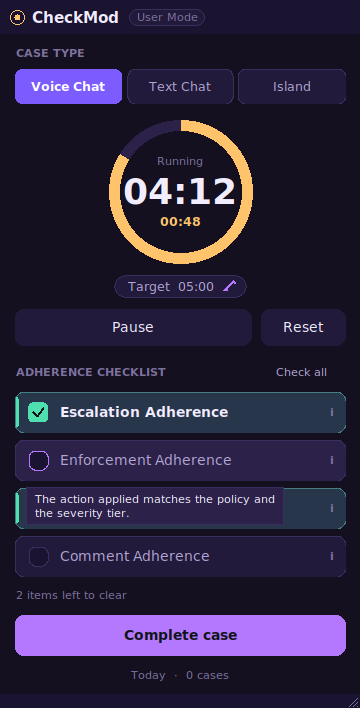
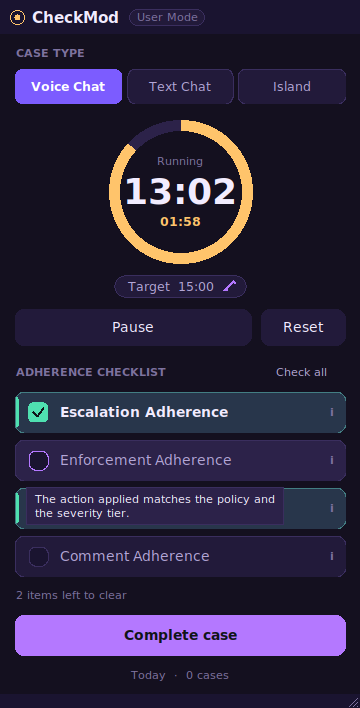
Set the shipped AHT targets to the team's real values
Voice Chat 15:00, Text Chat 10:00 and Island 20:00, replacing the
placeholder targets the first draft shipped with.

Also introduces config.DEFAULT_TARGET_S (10:00) as the single source for
the "new case type" target and the fallback used when a hand-edited
settings file carries an unparseable one - previously those were two
separate literals that could drift apart.

Documentation, the tutorial illustration and the screenshots are updated
to match, and a test pins the shipped targets so they cannot silently
regress to placeholders.

Claude-Session: https://claude.ai/code/session_01T4UPDu4nmNjdiQBqNAwjFN

Changed region(s): [[0.3361, 0.1864, 0.5194, 0.3418], [0.5194, 0.2486, 0.6111, 0.3107], [0.4889, 0.3729, 0.5194, 0.435]]

diff --git a/checkmod/config.py b/checkmod/config.py
@@ -22,6 +22,11 @@ from . import paths
 SCHEMA_VERSION = 1
 
 
+#: AHT target used for a newly created case type, and as the fallback when a
+#: hand-edited settings file carries an unparseable one.
+DEFAULT_TARGET_S = 600
+
+
 def _case(cid: str, name: str, target: int, color: str) -> Dict[str, Any]:
     """Build a case-type record (a work item with its own AHT target)."""
     return {"id": cid, "name": name, "target_s": target, "color": color, "enabled": True}
@@ -72,9 +77,9 @@ DEFAULTS: Dict[str, Any] = {
     "history_retention_days": 30,
     # ----- Domain data -----------------------------------------------------
     "case_types": [
-        _case("voice", "Voice Chat", 300, "#7C5CFF"),
-        _case("text", "Text Chat", 240, "#2BB3A3"),
-        _case("island", "Island", 420, "#F2A03D"),
+        _case("voice", "Voice Chat", 900, "#7C5CFF"),    # 15:00
+        _case("text", "Text Chat", 600, "#2BB3A3"),      # 10:00
+        _case("island", "Island", 1200, "#F2A03D"),      # 20:00
     ],
     "checklist": [
         _check("escalation", "Escalation Adherence",
@@ -317,9 +322,9 @@ class Config:
             if not isinstance(item, dict) or not item.get("name"):
                 continue
             try:
-                target = int(item.get("target_s", 300))
+                target = int(item.get("target_s", DEFAULT_TARGET_S))
             except (TypeError, ValueError):
-                target = 300
+                target = DEFAULT_TARGET_S
             cleaned.append({
                 "id": str(item.get("id") or new_id("case")),
                 "name": str(item["name"])[:40],

diff --git a/tests/test_config.py b/tests/test_config.py
@@ -36,6 +36,17 @@ def test_defaults_cover_the_documented_requirements(tmp_path):
     assert config.get("mode") == "user"
 
 
+def test_shipped_aht_targets_match_the_documented_values(tmp_path):
+    """The defaults are the team's real targets, not placeholders."""
+    config = make_config(tmp_path)
+    targets = {case["name"]: case["target_s"] for case in config.get("case_types")}
+    assert targets == {
+        "Voice Chat": 15 * 60,
+        "Text Chat": 10 * 60,
+        "Island": 20 * 60,
+    }
+
+
 def test_dotted_get_and_set_round_trip_through_the_file(tmp_path):
     config = make_config(tmp_path)
     config.set("window.w", 420)
@@ -108,7 +119,7 @@ def test_a_case_type_with_a_bad_target_falls_back_to_a_usable_value(tmp_path):
                                                 "target_s": "banana"}]}), encoding="utf-8")
 
     config = Config(path=path)
-    assert config.get("case_types")[0]["target_s"] == 300
+    assert config.get("case_types")[0]["target_s"] == 600
 
 
 def test_an_unknown_language_falls_back_to_english(tmp_path):

diff --git a/checkmod/ui/dev_view.py b/checkmod/ui/dev_view.py
@@ -27,7 +27,7 @@ import tkinter as tk
 from typing import Callable, Dict, Optional
 
 from .. import __version__, paths, theme as theme_mod
-from ..config import new_id
+from ..config import DEFAULT_TARGET_S, new_id
 from ..session import format_duration, parse_duration
 from . import dialogs
 from .fonts import PREFERRED_FAMILIES, available_families
@@ -618,7 +618,7 @@ class DevView(tk.Frame):
         cases = [dict(c) for c in self.app.config.get("case_types", [])]
         palette = theme_mod.ACCENT_SWATCHES
         cases.append({
-            "id": new_id("case"), "name": name.strip()[:40], "target_s": 300,
+            "id": new_id("case"), "name": name.strip()[:40], "target_s": DEFAULT_TARGET_S,
             "color": palette[len(cases) % len(palette)], "enabled": True,
         })
         self.app.config.set("case_types", cases)

diff --git a/checkmod/ui/tutorial.py b/checkmod/ui/tutorial.py
@@ -202,7 +202,8 @@ class Tutorial(tk.Frame):
             canvas.create_oval(cx - r, cy - r, cx + r, cy + r, outline=theme["track"], width=8)
             canvas.create_arc(cx - r, cy - r, cx + r, cy + r, start=90, extent=-250,
                               style=tk.ARC, outline=theme["warn"], width=8)
-            canvas.create_text(cx, cy, text="04:12", fill=theme["text"], font=fonts["body_bold"])
+            # 10:21 of a 15:00 target matches the ~69% arc drawn above it.
+            canvas.create_text(cx, cy, text="10:21", fill=theme["text"], font=fonts["body_bold"])
             for index, (color, label) in enumerate(
                     ((theme["ok"], "OK"), (theme["warn"], "80%"), (theme["danger"], "100%"))):
                 x = fx1 + 18 + index * 52

diff --git a/docs/CUSTOMIZATION.md b/docs/CUSTOMIZATION.md
@@ -88,16 +88,16 @@ add a theme, that test will hold you to the same bar.
 | **▲ / ▼** | Reorder. The order here is the order of the pills — and of the `Alt+1…9` shortcuts. |
 | **×** | Delete, with confirmation. |
 
-**+ Add case type** creates a new one with a 5:00 target and the next unused
+**+ Add case type** creates a new one with a 10:00 target and the next unused
 accent colour.
 
 ### AHT target formats
 
 | You type | Stored as |
 |---|---|
-| `5` | 5 minutes |
-| `4.5` | 4 min 30 s |
-| `05:30` | 5 min 30 s |
+| `15` | 15 minutes |
+| `12.5` | 12 min 30 s |
+| `15:30` | 15 min 30 s |
 | `1:30:00` | 1 h 30 min |
 
 A bare number means **minutes**, because that is how AHT is discussed day to
@@ -105,7 +105,7 @@ day. Anything unparseable is rejected and the field reverts — a typo can
 never silently set a target to zero.
 
 You can also edit the target for the selected type straight from User Mode by
-clicking the `Target 05:00 ✎` pill under the timer.
+clicking the `Target 15:00 ✎` pill under the timer.
 
 ---
 
@@ -224,9 +224,9 @@ Full file, with the factory values:
 
   // ---- domain ----
   "case_types": [
-    { "id": "voice",  "name": "Voice Chat", "target_s": 300, "color": "#7C5CFF", "enabled": true },
-    { "id": "text",   "name": "Text Chat",  "target_s": 240, "color": "#2BB3A3", "enabled": true },
-    { "id": "island", "name": "Island",     "target_s": 420, "color": "#F2A03D", "enabled": true }
+    { "id": "voice",  "name": "Voice Chat", "target_s": 900,  "color": "#7C5CFF", "enabled": true },
+    { "id": "text",   "name": "Text Chat",  "target_s": 600,  "color": "#2BB3A3", "enabled": true },
+    { "id": "island", "name": "Island",     "target_s": 1200, "color": "#F2A03D", "enabled": true }
   ],
 
   "checklist": [

diff --git a/docs/TUTORIAL.md b/docs/TUTORIAL.md
@@ -34,9 +34,9 @@ The coloured pills at the top are your case types. Out of the box:
 
 | Case type | Default AHT target |
 |---|---|
-| Voice Chat | 5:00 |
-| Text Chat | 4:00 |
-| Island | 7:00 |
+| Voice Chat | 15:00 |
+| Text Chat | 10:00 |
+| Island | 20:00 |
 
 Clicking one binds it to the current case **and starts the timer** (you can
 turn that off in *Dev Mode → Rules → Start timer when a type is picked*).
@@ -78,7 +78,7 @@ the ring for a large time read-out with a progress bar.
 
 Two ways, both instant:
 
-**From the timer** — click the **`Target 05:00 ✎`** pill under the ring, type
+**From the timer** — click the **`Target 15:00 ✎`** pill under the ring, type
 a new value, press Enter.
 
 **From Dev Mode** — *Dev Mode → AHT*, then edit the target field on any case

diff --git a/CHANGELOG.md b/CHANGELOG.md
@@ -13,8 +13,8 @@ First release.
 **Core workflow**
 - Floating, always-on-top window with a custom draggable title bar, edge
   snapping, corner resize grip and a remembered position.
-- Case types with individual AHT targets — Voice Chat (5:00), Text Chat
-  (4:00) and Island (7:00) out of the box — addable, renameable,
+- Case types with individual AHT targets — Voice Chat (15:00), Text Chat
+  (10:00) and Island (20:00) out of the box — addable, renameable,
   recolourable, reorderable and removable.
 - Circular AHT gauge with amber and over-target states, an optional alert
   sound and a blinking title-bar status dot.

diff --git a/docs/FAQ.md b/docs/FAQ.md
@@ -35,8 +35,9 @@ It clamps itself back on screen at launch. If it is still awkward, use *Dev
 Mode → Window → Centre window*.
 
 **Can I change the AHT targets?**
-Yes, in two places: click the `Target 05:00 ✎` pill under the timer, or use
-*Dev Mode → AHT*. Type `5` for five minutes, or `05:30` for five and a half.
+Yes, in two places: click the `Target 15:00 ✎` pill under the timer, or use
+*Dev Mode → AHT*. Type `15` for fifteen minutes, or `15:30` for fifteen and a
+half.
 
 **Can I add my own case types or checklist items?**
 Yes — *Dev Mode → AHT* and *Dev Mode → Checks*. Add, rename, recolour,

diff --git a/docs/PRIVACY.md b/docs/PRIVACY.md
@@ -75,8 +75,8 @@ One record is appended per completed case. This is the complete schema
   "ts": 1767225600,
   "case_id": "voice",
   "case_name": "Voice Chat",
-  "duration_s": 284,
-  "target_s": 300,
+  "duration_s": 884,
+  "target_s": 900,
   "paused_s": 0,
   "checks": {"escalation": true, "enforcement": true,
              "evidence": true, "comment": false},
